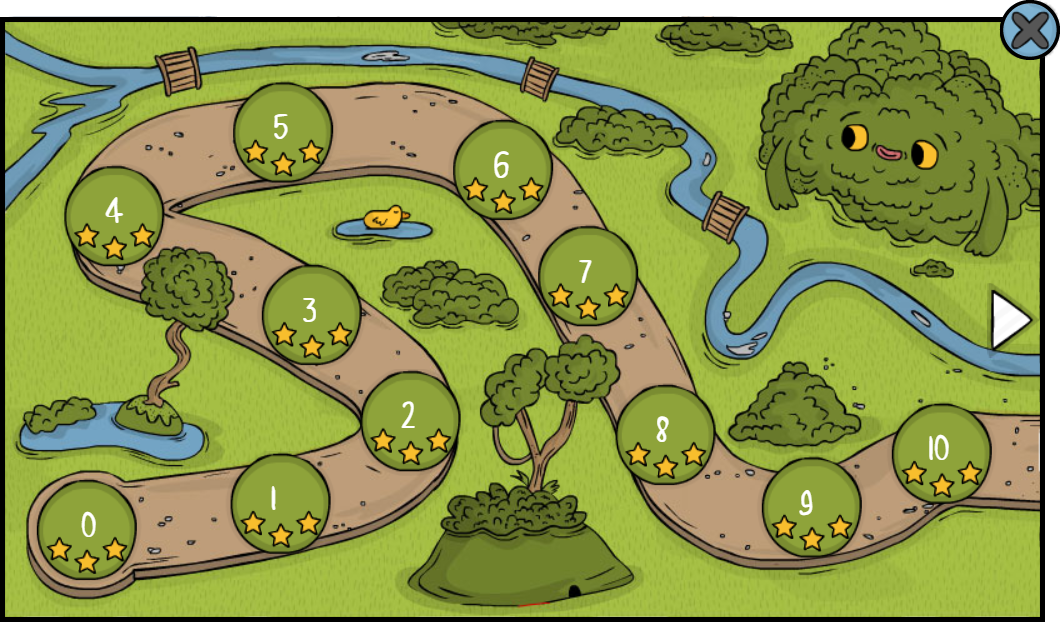
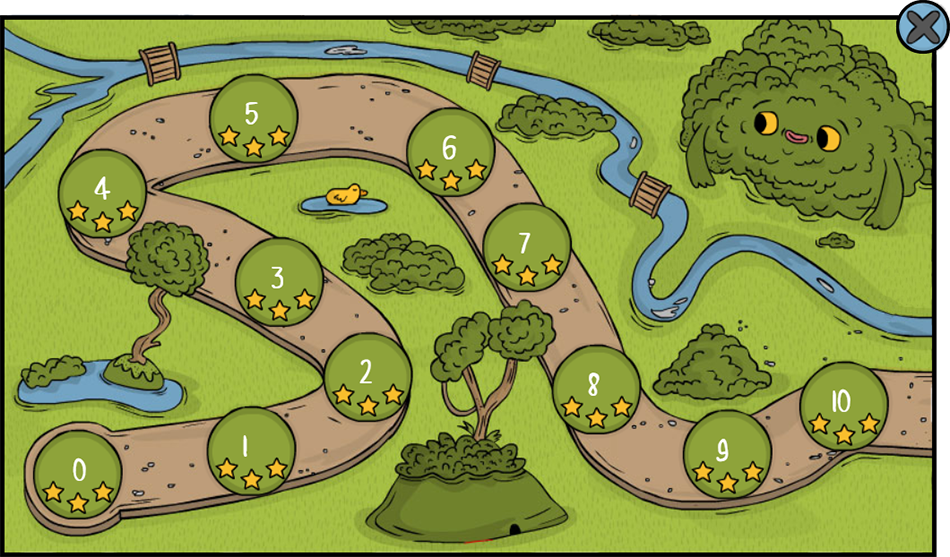
good

Changed region(s): [[0.9158, 0.4578, 0.9768, 0.5799]]

diff --git a/src/app/canvas/canvas.component.ts b/src/app/canvas/canvas.component.ts
@@ -7,11 +7,17 @@ import { NotepadService } from '../notepad/notepad.service';
   styleUrls: ['./canvas.component.css']
 })
 export class CanvasComponent implements OnInit {
+  isMin: boolean;
+  isMax: boolean;
   currentLevel: number;
   displayLevaelPassing: string;
+
   constructor(public notepadService: NotepadService) { }
   number = [0, 1, 2, 3, 4, 5, 6, 7, 8, 9, 10];
   ngOnInit() {
+    this.isMin = eval('isMin()');
+    this.isMax = eval('isMax()');
+    console.log('good', this.isMin, this.isMax);
     let isPass = 0;
     setInterval(() => {
       // tslint:disable-next-line:no-eval
@@ -61,6 +67,24 @@ export class CanvasComponent implements OnInit {
     // tslint:disable-next-line:no-eval
     eval('diveLinker.Send([{"id":1506435020252, "value":' + number + '},{"id":1505892241566, "value":' + number + '}]);');
 
+  }
+
+  nextBlock() {
+    // tslint:disable-next-line:no-eval
+    eval('addCurrentNum()');
+    // tslint:disable-next-line:no-eval
+    this.isMax = eval('isMax()');
+    // tslint:disable-next-line:no-eval
+    this.isMin = eval('isMin()');
+  }
+
+  lastBlock() {
+    // tslint:disable-next-line:no-eval
+    eval('subCurrentNum()');
+    // tslint:disable-next-line:no-eval
+    this.isMax = eval('isMax()');
+    // tslint:disable-next-line:no-eval
+    this.isMin = eval('isMin()');
   }
 
   onSelect(number: number) {

diff --git a/src/diveControl.js b/src/diveControl.js
@@ -1,0 +1,27 @@
+let currentNum = 0;
+const diveAddress = [
+    "http://dive.nutn.edu.tw:8080/Experiment/kaleTestExperiment4.jsp?eid=3122",
+    "http://dive.nutn.edu.tw:8080/Experiment/kaleTestExperiment4.jsp?eid=3123",
+    "http://dive.nutn.edu.tw:8080/Experiment/kaleTestExperiment4.jsp?eid=3220",
+    "http://dive.nutn.edu.tw:8080/Experiment/kaleTestExperiment4.jsp?eid=3225",
+];
+function addCurrentNum() {
+    if (isMax()) {
+        currentNum += 1;
+        document.getElementById("iframe").src = diveAddress[currentNum];
+    }
+}
+function subCurrentNum() {
+    if (currentNum > 0) {
+        currentNum -= 1;
+        document.getElementById("iframe").src = diveAddress[currentNum];
+    }
+}
+
+function isMax() {
+  return currentNum !== diveAddress.length - 1;
+}
+
+function isMin() {
+  return currentNum === 0;
+}

diff --git a/src/index.html b/src/index.html
@@ -8,14 +8,13 @@
 
   <meta name="viewport" content="width=device-width, initial-scale=1">
   <link rel="icon" type="image/x-icon" href="favicon.ico">
-  <!-- <script type="text/javascript" src="http://sandbox.ternarylabs.com/porthole/js/porthole.min.js"></script> -->
   <script type="text/javascript" src="http://dive.nutn.edu.tw:8080/Experiment/js/DiVE.Linker.js"></script>
-
-
 </head>
 <body>
 
   <app-root></app-root>
+  <!-- <input type="button" value="add" onClick="addCurrentNum();">
+  <input type="button" value="sub" onClick="subCurrentNum();"> -->
   <div class="col-6 iframe">
       <iframe id="iframe" src="http://dive.nutn.edu.tw:8080/Experiment/kaleTestExperiment4.jsp?eid=3122" name="mainExperiment" ></iframe>
   </div>

diff --git a/src/app/canvas/canvas.component.html b/src/app/canvas/canvas.component.html
@@ -1,4 +1,16 @@
+
+
 <div [ngStyle]="{'display': this.notepadService.display}" class="map">
+    <div [ngStyle]="{'display': this.isMin ? 'none' : 'block'}"
+         class="arrowLeft"
+         (click)="lastBlock()">
+      <img src="assets/arrowLeft.png" class="img-fluid" alt="">
+    </div>
+    <div [ngStyle]="{'display': !this.isMax ? 'none' : 'block'}"
+         class="arrowRight"
+         (click)="nextBlock()">
+      <img src="assets/arrowRight.png" class="img-fluid" alt="">
+    </div>
     <div id="close"
          class="selecter"
          (click)="onClose()"></div>

diff --git a/src/app/canvas/canvas.component.css b/src/app/canvas/canvas.component.css
@@ -26,6 +26,34 @@
   opacity: 0;
 }
 
+.arrowLeft {
+  width: 50px;
+  position: absolute;
+  top: 45%;
+  left: 16%;
+  opacity: 0.8;
+  z-index: 100000;
+}
+
+.arrowLeft:hover {
+  opacity: 0.9;
+  cursor: pointer;
+}
+
+.arrowRight {
+  width: 50px;
+  position: absolute;
+  top: 45%;
+  right: 17%;
+  opacity: 0.8;
+  z-index: 100000;
+}
+
+.arrowRight:hover {
+  opacity: 0.9;
+  cursor: pointer;
+}
+
 #close {
   width: 58px;
   height: 58px;
